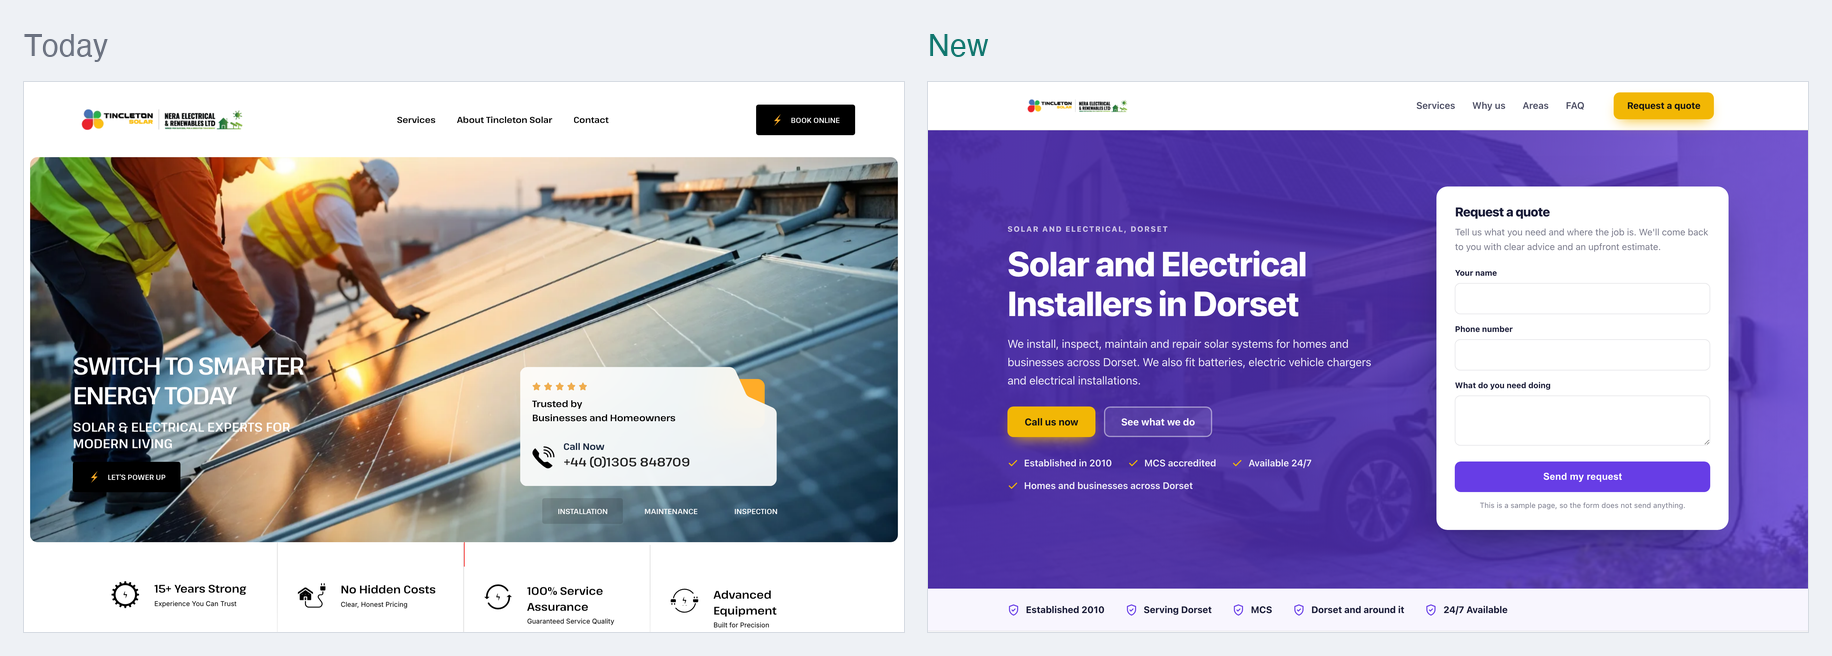
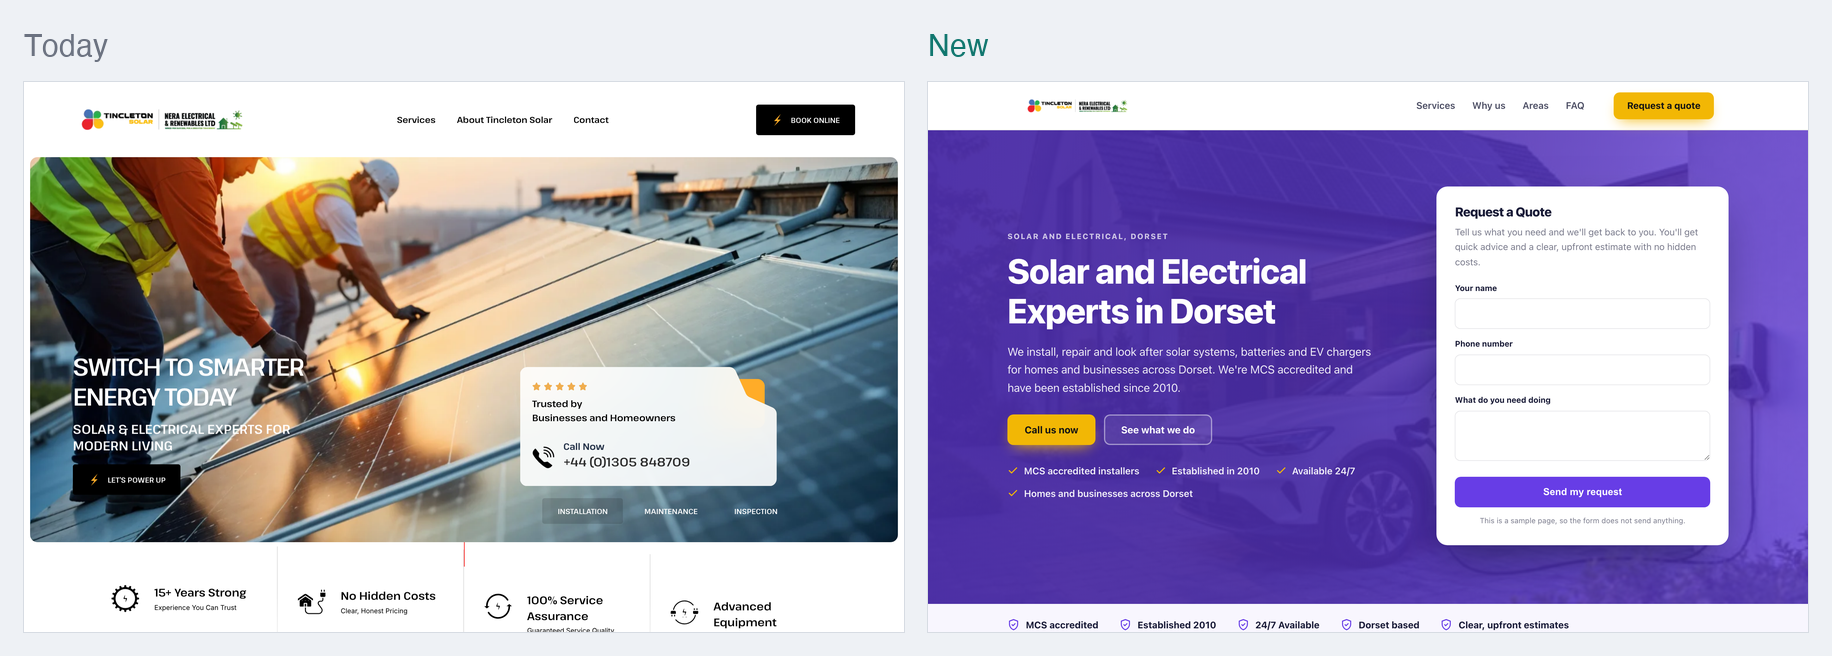
One page sample for Tincleton Solar

diff --git a/docs/0d2117ee6b/index.html b/docs/0d2117ee6b/index.html
@@ -4,14 +4,14 @@
 <meta charset="utf-8">
 <meta name="viewport" content="width=device-width, initial-scale=1">
 <meta name="robots" content="noindex,nofollow">
-<meta name="aso-build" content="113971660118">
-<title>Solar Panel Installers in Dorset | Tincleton Solar</title>
-<meta name="description" content="MCS accredited solar installers in Dorset. Installation, repair, maintenance, batteries and electric vehicle charging, with clear upfront estimates.">
+<meta name="aso-build" content="2dceeeea65d5">
+<title>Solar &amp; Electrical Installers in Dorset | Tincleton Solar</title>
+<meta name="description" content="MCS accredited solar and electrical installers in Dorset since 2010. Solar panels, batteries, EV chargers, repairs and maintenance. Available 24/7.">
 <link rel="canonical" href="https://markygff.github.io/aso-mockups/0d2117ee6b/">
 <meta property="og:type" content="website">
 <meta property="og:site_name" content="Tincleton Solar">
-<meta property="og:title" content="Solar Panel Installers in Dorset | Tincleton Solar">
-<meta property="og:description" content="MCS accredited solar installers in Dorset. Installation, repair, maintenance, batteries and electric vehicle charging, with clear upfront estimates.">
+<meta property="og:title" content="Solar &amp; Electrical Installers in Dorset | Tincleton Solar">
+<meta property="og:description" content="MCS accredited solar and electrical installers in Dorset since 2010. Solar panels, batteries, EV chargers, repairs and maintenance. Available 24/7.">
 <meta property="og:url" content="https://markygff.github.io/aso-mockups/0d2117ee6b/">
 <meta property="og:image" content="img/p00.jpg"><meta name="twitter:card" content="summary_large_image">
 <style>
@@ -285,18 +285,18 @@ p{margin:0}
   <div class="wrap hero-in">
     <div>
       <p class="eyebrow">Solar and electrical, Dorset</p>
-      <h1>Solar and Electrical Installers in Dorset</h1>
-      <p class="hero-sub">We install, inspect, maintain and repair solar systems for homes and businesses across Dorset. We also fit batteries, electric vehicle chargers and electrical installations.</p>
+      <h1>Solar and Electrical Experts in Dorset</h1>
+      <p class="hero-sub">We install, repair and look after solar systems, batteries and EV chargers for homes and businesses across Dorset. We&#39;re MCS accredited and have been established since 2010.</p>
       <div class="hero-actions">
         <a class="btn btn-accent" href="#quote">Call us now</a>
         <a class="btn btn-ghost" href="#services">See what we do</a>
       </div>
       <ul class="hero-bullets">
-<li><svg viewBox="0 0 24 24" fill="none" stroke="currentColor" stroke-width="2.4" stroke-linecap="round" stroke-linejoin="round" aria-hidden="true"><path d="M20 6 9 17l-5-5"/></svg><span>Established in 2010</span></li><li><svg viewBox="0 0 24 24" fill="none" stroke="currentColor" stroke-width="2.4" stroke-linecap="round" stroke-linejoin="round" aria-hidden="true"><path d="M20 6 9 17l-5-5"/></svg><span>MCS accredited</span></li><li><svg viewBox="0 0 24 24" fill="none" stroke="currentColor" stroke-width="2.4" stroke-linecap="round" stroke-linejoin="round" aria-hidden="true"><path d="M20 6 9 17l-5-5"/></svg><span>Available 24/7</span></li><li><svg viewBox="0 0 24 24" fill="none" stroke="currentColor" stroke-width="2.4" stroke-linecap="round" stroke-linejoin="round" aria-hidden="true"><path d="M20 6 9 17l-5-5"/></svg><span>Homes and businesses across Dorset</span></li>      </ul>
+<li><svg viewBox="0 0 24 24" fill="none" stroke="currentColor" stroke-width="2.4" stroke-linecap="round" stroke-linejoin="round" aria-hidden="true"><path d="M20 6 9 17l-5-5"/></svg><span>MCS accredited installers</span></li><li><svg viewBox="0 0 24 24" fill="none" stroke="currentColor" stroke-width="2.4" stroke-linecap="round" stroke-linejoin="round" aria-hidden="true"><path d="M20 6 9 17l-5-5"/></svg><span>Established in 2010</span></li><li><svg viewBox="0 0 24 24" fill="none" stroke="currentColor" stroke-width="2.4" stroke-linecap="round" stroke-linejoin="round" aria-hidden="true"><path d="M20 6 9 17l-5-5"/></svg><span>Available 24/7</span></li><li><svg viewBox="0 0 24 24" fill="none" stroke="currentColor" stroke-width="2.4" stroke-linecap="round" stroke-linejoin="round" aria-hidden="true"><path d="M20 6 9 17l-5-5"/></svg><span>Homes and businesses across Dorset</span></li>      </ul>
     </div>
     <div class="quote-card" id="quote">
-      <h3>Request a quote</h3>
-      <p class="lead">Tell us what you need and where the job is. We&#39;ll come back to you with clear advice and an upfront estimate.</p>
+      <h3>Request a Quote</h3>
+      <p class="lead">Tell us what you need and we&#39;ll get back to you. You&#39;ll get quick advice and a clear, upfront estimate with no hidden costs.</p>
       <form action="#" onsubmit="return false" novalidate>
         <div class="field"><label for="h-name">Your name</label>
           <input id="h-name" name="name" type="text" autocomplete="name"></div>
@@ -313,11 +313,11 @@ p{margin:0}
 
 <div class="trust">
   <div class="wrap trust-in">
+    <div class="trust-item"><svg viewBox="0 0 24 24" fill="none" stroke="currentColor" stroke-width="2" stroke-linecap="round" stroke-linejoin="round" aria-hidden="true"><path d="M12 2 4 5v6c0 5 3.4 9.4 8 11 4.6-1.6 8-6 8-11V5z"/><path d="m9 12 2 2 4-4"/></svg><span>MCS accredited</span></div>
     <div class="trust-item"><svg viewBox="0 0 24 24" fill="none" stroke="currentColor" stroke-width="2" stroke-linecap="round" stroke-linejoin="round" aria-hidden="true"><path d="M12 2 4 5v6c0 5 3.4 9.4 8 11 4.6-1.6 8-6 8-11V5z"/><path d="m9 12 2 2 4-4"/></svg><span>Established 2010</span></div>
-    <div class="trust-item"><svg viewBox="0 0 24 24" fill="none" stroke="currentColor" stroke-width="2" stroke-linecap="round" stroke-linejoin="round" aria-hidden="true"><path d="M12 2 4 5v6c0 5 3.4 9.4 8 11 4.6-1.6 8-6 8-11V5z"/><path d="m9 12 2 2 4-4"/></svg><span>Serving Dorset</span></div>
-    <div class="trust-item"><svg viewBox="0 0 24 24" fill="none" stroke="currentColor" stroke-width="2" stroke-linecap="round" stroke-linejoin="round" aria-hidden="true"><path d="M12 2 4 5v6c0 5 3.4 9.4 8 11 4.6-1.6 8-6 8-11V5z"/><path d="m9 12 2 2 4-4"/></svg><span>MCS</span></div>
-    <div class="trust-item"><svg viewBox="0 0 24 24" fill="none" stroke="currentColor" stroke-width="2" stroke-linecap="round" stroke-linejoin="round" aria-hidden="true"><path d="M12 2 4 5v6c0 5 3.4 9.4 8 11 4.6-1.6 8-6 8-11V5z"/><path d="m9 12 2 2 4-4"/></svg><span>Dorset and around it</span></div>
     <div class="trust-item"><svg viewBox="0 0 24 24" fill="none" stroke="currentColor" stroke-width="2" stroke-linecap="round" stroke-linejoin="round" aria-hidden="true"><path d="M12 2 4 5v6c0 5 3.4 9.4 8 11 4.6-1.6 8-6 8-11V5z"/><path d="m9 12 2 2 4-4"/></svg><span>24/7 Available</span></div>
+    <div class="trust-item"><svg viewBox="0 0 24 24" fill="none" stroke="currentColor" stroke-width="2" stroke-linecap="round" stroke-linejoin="round" aria-hidden="true"><path d="M12 2 4 5v6c0 5 3.4 9.4 8 11 4.6-1.6 8-6 8-11V5z"/><path d="m9 12 2 2 4-4"/></svg><span>Dorset based</span></div>
+    <div class="trust-item"><svg viewBox="0 0 24 24" fill="none" stroke="currentColor" stroke-width="2" stroke-linecap="round" stroke-linejoin="round" aria-hidden="true"><path d="M12 2 4 5v6c0 5 3.4 9.4 8 11 4.6-1.6 8-6 8-11V5z"/><path d="m9 12 2 2 4-4"/></svg><span>Clear, upfront estimates</span></div>
   </div>
 </div>
 
@@ -325,22 +325,22 @@ p{margin:0}
   <div class="wrap">
     <div class="section-head">
       <p class="eyebrow">What we do</p>
-      <h2>Solar and electrical services in Dorset</h2>
-      <p>We look after solar from the first fit to long-term care. We also do the electrical work that goes with it.</p>
+      <h2>Solar and Electrical Services in Dorset</h2>
+      <p>We fit new systems, fix faulty ones and keep working ones at their best. Here&#39;s what we do.</p>
     </div>
     <div class="grid grid-3">
       <article class="card card-photo">
         <img src="img/p13.jpg" alt="Solar Installation" width="600" height="380" loading="lazy">
         <div class="card-body">
           <h3>Solar Installation</h3>
-          <p>New solar panel systems designed around your home or business and fitted by an MCS accredited team.</p>
+          <p>Solar panels designed and fitted for your home or business. A good fit if your electricity bills keep climbing.</p>
         </div>
       </article>
       <article class="card card-photo">
         <img src="img/p14.jpg" alt="Solar System Inspection &amp; Investigation Service" width="600" height="380" loading="lazy">
         <div class="card-body">
           <h3>Solar System Inspection &amp; Investigation Service</h3>
-          <p>A proper look at a system that&#39;s underperforming or showing faults. You&#39;ll know what&#39;s wrong before you spend money fixing it.</p>
+          <p>A proper look at a system that isn&#39;t performing as it should. We find out what&#39;s wrong and tell you plainly.</p>
         </div>
       </article>
       <article class="card card-photo">
@@ -353,27 +353,27 @@ p{margin:0}
       <article class="card">
         <div class="icon"><svg viewBox="0 0 24 24" fill="none" stroke="currentColor" stroke-width="2" stroke-linecap="round" stroke-linejoin="round" aria-hidden="true"><path d="M4 20 15 9"/><path d="m14 4 6 6-3 3-6-6z"/><path d="m3 15 6 6"/></svg></div>
         <h3>Solar System Performance &amp; Asset Management</h3>
-        <p>We keep an eye on how your system performs over time and spot drops in output early, so you keep getting the return you paid for.</p>
+        <p>Regular monitoring of how your system performs, so drops in output get spotted and dealt with early.</p>
       </article>
       <article class="card">
         <div class="icon"><svg viewBox="0 0 24 24" fill="none" stroke="currentColor" stroke-width="2" stroke-linecap="round" stroke-linejoin="round" aria-hidden="true"><path d="M12 3s5 4.2 5 9a5 5 0 0 1-10 0c0-1.8.8-3.2 1.6-4.2.3 1 1 1.9 1.9 2.3C11 8.4 10.7 5.6 12 3z"/></svg></div>
         <h3>Solar System Repair</h3>
-        <p>Your system has stopped producing or keeps showing faults. We find the cause and put it right.</p>
+        <p>Faults on solar systems found and fixed. Get in touch when output drops or the system shuts down.</p>
       </article>
       <article class="card">
         <div class="icon"><svg viewBox="0 0 24 24" fill="none" stroke="currentColor" stroke-width="2" stroke-linecap="round" stroke-linejoin="round" aria-hidden="true"><path d="M2 7h11v10H2z"/><path d="M13 10h4l4 3.5V17h-8z"/><circle cx="6" cy="18" r="2"/><circle cx="17" cy="18" r="2"/></svg></div>
         <h3>Electrical Installations</h3>
-        <p>Electrical work for homes and businesses, carried out to the same standard as our solar jobs.</p>
+        <p>General electrical work for homes and businesses, carried out by certified electricians.</p>
       </article>
       <article class="card">
         <div class="icon"><svg viewBox="0 0 24 24" fill="none" stroke="currentColor" stroke-width="2" stroke-linecap="round" stroke-linejoin="round" aria-hidden="true"><path d="M12 2 4 5v6c0 5 3.4 9.4 8 11 4.6-1.6 8-6 8-11V5z"/><path d="m9 12 2 2 4-4"/></svg></div>
         <h3>Battery Installation</h3>
-        <p>A battery stores the power your panels make. You can use it in the evening and keep power on when the grid goes down.</p>
+        <p>Battery storage keeps the solar power you generate for later, and gives you backup when the grid goes down.</p>
       </article>
       <article class="card">
         <div class="icon"><svg viewBox="0 0 24 24" fill="none" stroke="currentColor" stroke-width="2" stroke-linecap="round" stroke-linejoin="round" aria-hidden="true"><circle cx="12" cy="12" r="9"/><path d="M12 7v5l3 2"/></svg></div>
         <h3>Electric Vehicle Charging</h3>
-        <p>A home or workplace charger fitted and connected properly, so your car is ready when you need it.</p>
+        <p>Home and workplace EV chargers fitted safely, with the option to run them from your own solar power.</p>
       </article>
     </div>
   </div>
@@ -383,35 +383,35 @@ p{margin:0}
   <div class="wrap">
     <div class="section-head">
       <p class="eyebrow">Why us</p>
-      <h2>Why Dorset customers choose Tincleton Solar</h2>
+      <h2>Why Dorset Customers Choose Tincleton</h2>
     </div>
     <div class="grid grid-2">
       <div class="why-item">
         <div class="why-badge">1</div>
         <div>
-          <h3>Clear, upfront estimates</h3>
-          <p>You get a clear estimate before any work starts. No surprises and no hidden costs.</p>
+          <h3>MCS accredited</h3>
+          <p>Our installers are certified experts who put precision and safety first on every job.</p>
         </div>
       </div>
       <div class="why-item">
         <div class="why-badge">2</div>
         <div>
-          <h3>Established in 2010</h3>
-          <p>We&#39;ve been fitting and looking after solar systems across Dorset since 2010.</p>
+          <h3>Clear, honest pricing</h3>
+          <p>You get a clear, upfront estimate before we start. No surprises and no hidden costs.</p>
         </div>
       </div>
       <div class="why-item">
         <div class="why-badge">3</div>
         <div>
-          <h3>MCS accredited</h3>
-          <p>Our solar work is carried out by an MCS accredited team, so you know it&#39;s done to the proper standard.</p>
+          <h3>Quality workmanship</h3>
+          <p>We pay attention to the detail, so the work lasts. We don&#39;t leave until the job is done right.</p>
         </div>
       </div>
       <div class="why-item">
         <div class="why-badge">4</div>
         <div>
-          <h3>We finish the job properly</h3>
-          <p>We don&#39;t leave until the job is done right and your system is working as it should.</p>
+          <h3>Local since 2010</h3>
+          <p>We&#39;ve been installing solar across Dorset for over a decade, for homeowners and businesses alike.</p>
         </div>
       </div>
     </div>
@@ -423,8 +423,8 @@ p{margin:0}
   <div class="wrap">
     <div class="section-head">
       <p class="eyebrow">Where we work</p>
-      <h2>Solar and electrical work across Dorset</h2>
-      <p>We work for homeowners and businesses across Dorset.</p>
+      <h2>Solar and Electrical Work Across Dorset</h2>
+      <p>We&#39;re based in Dorset and work for homes and businesses across the county.</p>
     </div>
     <ul class="area-list">
 <li>Dorset</li>    </ul>
@@ -435,27 +435,27 @@ p{margin:0}
   <div class="wrap" style="max-width:840px">
     <div class="section-head">
       <p class="eyebrow">Questions</p>
-      <h2>Solar and electrical questions answered</h2>
+      <h2>Solar and Electrical Questions Answered</h2>
     </div>
     <div class="faq-item">
-      <h3><span>Q.</span>Which areas of Dorset do you cover?</h3>
-      <p>We work across Dorset for homeowners and businesses. Send us your details through the quote form and tell us where the job is.</p>
+      <h3><span>Q.</span>Do you install solar panels in Dorset?</h3>
+      <p>Yes. We&#39;re based in Dorset and have installed solar for homes and businesses across the county since 2010. We&#39;re MCS accredited and also fit batteries and EV chargers.</p>
     </div>
     <div class="faq-item">
-      <h3><span>Q.</span>Are you an MCS accredited solar installer?</h3>
-      <p>Yes. Tincleton Solar is MCS accredited, and our solar installations are carried out by our certified team.</p>
+      <h3><span>Q.</span>Is solar worth the cost to install?</h3>
+      <p>The setup is an investment, but it pays off over time through lower electricity bills. How much you save depends on your usage, so we&#39;ll give you a clear, upfront estimate before any work starts.</p>
     </div>
     <div class="faq-item">
-      <h3><span>Q.</span>My solar panels have stopped working. Can you help?</h3>
-      <p>Yes. Our inspection and investigation service finds out what&#39;s gone wrong, and our repair service puts it right. We&#39;ll explain the fault and the cost before we fix anything.</p>
+      <h3><span>Q.</span>Do you give free quotes?</h3>
+      <p>You can talk to one of our experts for quick advice at no cost. If you go ahead, you get a clear, upfront estimate with no hidden costs.</p>
     </div>
     <div class="faq-item">
       <h3><span>Q.</span>Will solar panels work during a power cut?</h3>
-      <p>Standard systems shut off during a power cut for safety. With a battery fitted, you can still have power when the grid goes down. We install batteries alongside new and existing systems.</p>
+      <p>Standard systems switch off during a power cut for safety. With battery backup fitted, you can still have power when the grid goes down.</p>
     </div>
     <div class="faq-item">
-      <h3><span>Q.</span>Do you give a price before you start?</h3>
-      <p>Yes. You get a clear, upfront estimate before any work begins. No surprises and no hidden costs.</p>
+      <h3><span>Q.</span>How long do solar panels last and what maintenance do they need?</h3>
+      <p>Most solar panels last 25 to 30 years or more. They need very little care. Occasional cleaning and routine checks keep them running efficiently, and we can carry those out for you.</p>
     </div>
   </div>
 </section>
@@ -464,8 +464,8 @@ p{margin:0}
   <div class="wrap contact-in">
     <div>
       <p class="eyebrow">Get in touch</p>
-      <h2 style="font-size:clamp(1.75rem,3.2vw,2.4rem);margin-bottom:14px">Request a quote</h2>
-      <p style="color:var(--muted);font-size:1.06rem">Tell us what you need and where the job is. We&#39;ll come back to you with clear advice and an upfront estimate.</p>
+      <h2 style="font-size:clamp(1.75rem,3.2vw,2.4rem);margin-bottom:14px">Request a Quote</h2>
+      <p style="color:var(--muted);font-size:1.06rem">Tell us what you need and we&#39;ll get back to you. You&#39;ll get quick advice and a clear, upfront estimate with no hidden costs.</p>
       <div class="contact-facts">
         <div class="fact-row"><svg viewBox="0 0 24 24" fill="none" stroke="currentColor" stroke-width="2" stroke-linecap="round" stroke-linejoin="round" aria-hidden="true"><rect x="2" y="4" width="20" height="16" rx="2"/><path d="m2 7 10 6 10-6"/></svg><div><strong>Email</strong>
           <a href="mailto:info@tincleton.co.uk">info@tincleton.co.uk</a></div></div>
@@ -503,7 +503,7 @@ p{margin:0}
     <div class="footer-in">
       <div>
         <div class="footer-brand">Tincleton Solar</div>
-        <p>Solar, battery, electric vehicle charging and electrical work for homes and businesses across Dorset.</p>
+        <p>MCS accredited solar and electrical installers for homes and businesses across Dorset.</p>
       </div>
       <div>
         <h4>Services</h4>
@@ -527,7 +527,7 @@ p{margin:0}
     "@type": "Electrician",
     "name": "Tincleton Solar",
     "url": "https://markygff.github.io/aso-mockups/0d2117ee6b/",
-    "description": "MCS accredited solar installers in Dorset. Installation, repair, maintenance, batteries and electric vehicle charging, with clear upfront estimates.",
+    "description": "MCS accredited solar and electrical installers in Dorset since 2010. Solar panels, batteries, EV chargers, repairs and maintenance. Available 24/7.",
     "email": "info@tincleton.co.uk",
     "address": {
       "@type": "PostalAddress",
@@ -609,26 +609,26 @@ p{margin:0}
     "mainEntity": [
       {
         "@type": "Question",
-        "name": "Which areas of Dorset do you cover?",
+        "name": "Do you install solar panels in Dorset?",
         "acceptedAnswer": {
           "@type": "Answer",
-          "text": "We work across Dorset for homeowners and businesses. Send us your details through the quote form and tell us where the job is."
+          "text": "Yes. We're based in Dorset and have installed solar for homes and businesses across the county since 2010. We're MCS accredited and also fit batteries and EV chargers."
         }
       },
       {
         "@type": "Question",
-        "name": "Are you an MCS accredited solar installer?",
+        "name": "Is solar worth the cost to install?",
         "acceptedAnswer": {
           "@type": "Answer",
-          "text": "Yes. Tincleton Solar is MCS accredited, and our solar installations are carried out by our certified team."
+          "text": "The setup is an investment, but it pays off over time through lower electricity bills. How much you save depends on your usage, so we'll give you a clear, upfront estimate before any work starts."
         }
       },
       {
         "@type": "Question",
-        "name": "My solar panels have stopped working. Can you help?",
+        "name": "Do you give free quotes?",
         "acceptedAnswer": {
           "@type": "Answer",
-          "text": "Yes. Our inspection and investigation service finds out what's gone wrong, and our repair service puts it right. We'll explain the fault and the cost before we fix anything."
+          "text": "You can talk to one of our experts for quick advice at no cost. If you go ahead, you get a clear, upfront estimate with no hidden costs."
         }
       },
       {
@@ -636,15 +636,15 @@ p{margin:0}
         "name": "Will solar panels work during a power cut?",
         "acceptedAnswer": {
           "@type": "Answer",
-          "text": "Standard systems shut off during a power cut for safety. With a battery fitted, you can still have power when the grid goes down. We install batteries alongside new and existing systems."
+          "text": "Standard systems switch off during a power cut for safety. With battery backup fitted, you can still have power when the grid goes down."
         }
       },
       {
         "@type": "Question",
-        "name": "Do you give a price before you start?",
+        "name": "How long do solar panels last and what maintenance do they need?",
         "acceptedAnswer": {
           "@type": "Answer",
-          "text": "Yes. You get a clear, upfront estimate before any work begins. No surprises and no hidden costs."
+          "text": "Most solar panels last 25 to 30 years or more. They need very little care. Occasional cleaning and routine checks keep them running efficiently, and we can carry those out for you."
         }
       }
     ]
